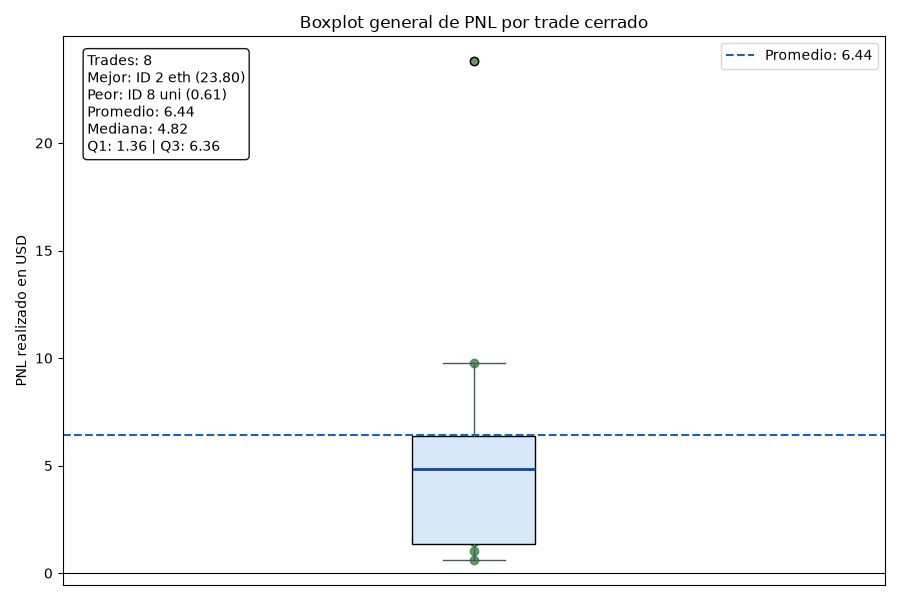
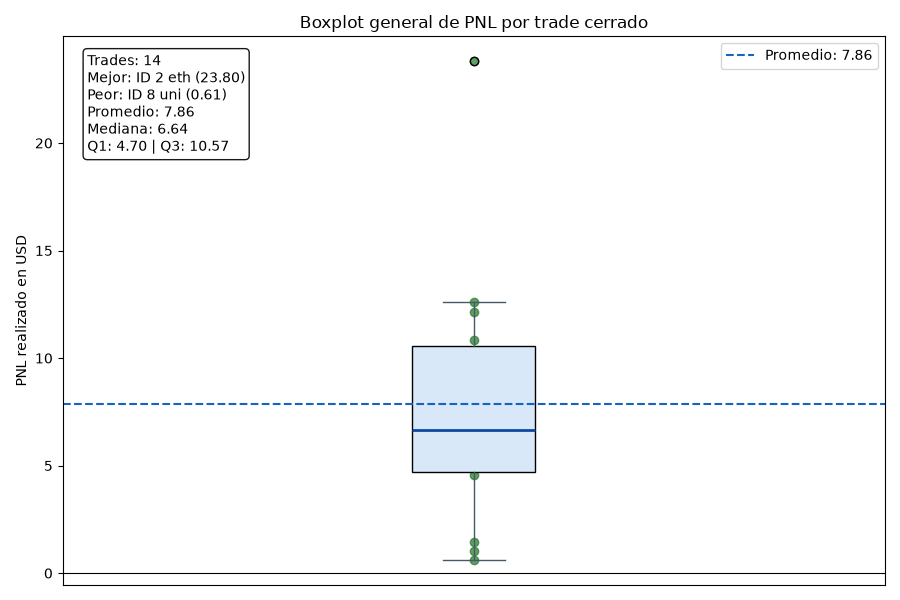
actualizando

diff --git a/operacion-Compra-Venta.py b/operacion-Compra-Venta.py
@@ -1,5 +1,6 @@
 import pandas as pd
 import os
+import math
 from datetime import datetime
 import matplotlib.pyplot as plt
 
@@ -465,11 +466,22 @@ def guardar_datos(compras, ventas, historial=None):
     if not operaciones_cerradas.empty and not ventas.empty:
         ventas_para_cerradas = ventas[[
             "ID compra",
+            "Fecha venta",
             "Dólares vendidos",
             "Precio venta",
             "Costo proporcional",
             "PNL realizado"
         ]].copy()
+
+        fechas_venta = pd.to_datetime(
+            ventas_para_cerradas["Fecha venta"],
+            dayfirst=True,
+            errors="coerce"
+        )
+        ventas_para_cerradas["Fecha de cierre"] = fechas_venta.groupby(
+            ventas_para_cerradas["ID compra"]
+        ).transform("max").dt.strftime("%d-%m-%Y")
+        ventas_para_cerradas = ventas_para_cerradas.drop(columns=["Fecha venta"])
 
         operaciones_cerradas = operaciones_cerradas.merge(
             ventas_para_cerradas,
@@ -482,6 +494,7 @@ def guardar_datos(compras, ventas, historial=None):
             "ID",
             "Nombre",
             "Fecha de compra",
+            "Fecha de cierre",
             "Dólares comprados",
             "Dólares vendidos",
             "Precio de compra",
@@ -663,7 +676,16 @@ def registrar_venta(compras, ventas, historial):
 
     elif tipo_venta == "2":
         porcentaje = pedir_numero("Porcentaje a vender: ")
-        cantidad_vendida = cantidad_restante * porcentaje / 100
+
+        if porcentaje <= 0 or porcentaje > 100:
+            print("\nError: el porcentaje debe ser mayor que 0 y menor o igual a 100.")
+            return compras, ventas, historial
+
+        # Para el 100 % usamos el saldo exacto y evitamos decimales extra de float.
+        if porcentaje == 100:
+            cantidad_vendida = cantidad_restante
+        else:
+            cantidad_vendida = cantidad_restante * porcentaje / 100
         print(f"Cantidad calculada a vender: {cantidad_vendida}")
 
     else:
@@ -672,9 +694,21 @@ def registrar_venta(compras, ventas, historial):
 
     precio_venta = pedir_numero("Precio de venta: ")
 
-    if cantidad_vendida > cantidad_restante:
+    if cantidad_vendida <= 0:
+        print("\nError: la cantidad a vender debe ser mayor que 0.")
+        return compras, ventas, historial
+
+    if cantidad_vendida > cantidad_restante and not math.isclose(
+        cantidad_vendida,
+        cantidad_restante,
+        rel_tol=1e-12,
+        abs_tol=1e-15
+    ):
         print("\nError: no podés vender más de lo que tenés disponible.")
         return compras, ventas, historial
+
+    # Corrige únicamente excesos microscópicos provocados por punto flotante.
+    cantidad_vendida = min(cantidad_vendida, cantidad_restante)
 
     dolares_vendidos = cantidad_vendida * precio_venta
 
